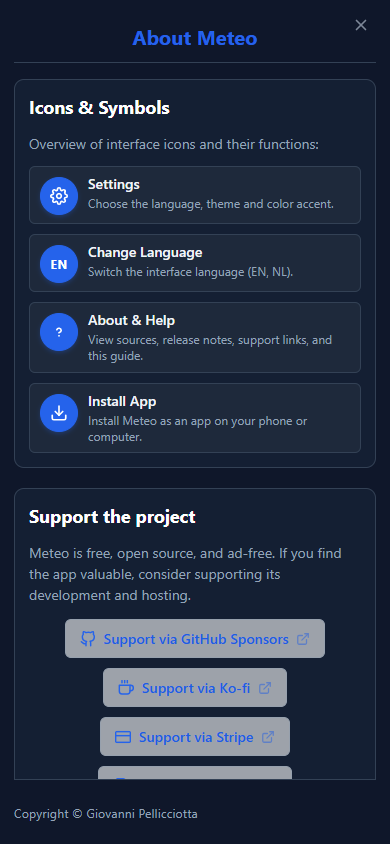
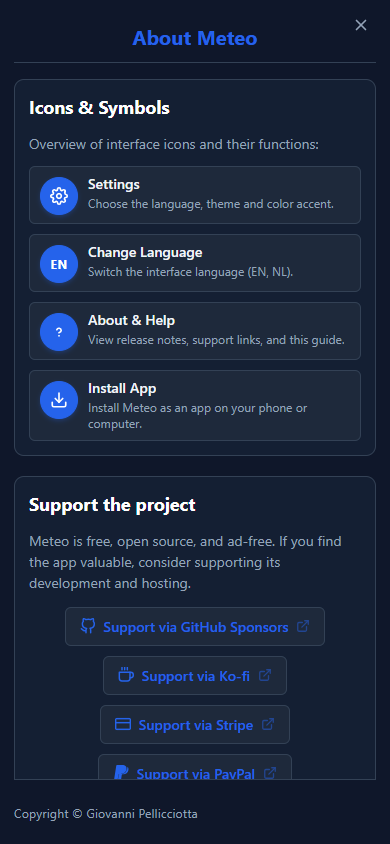
Isolated the meteo language preference from sibling apps and addressed the first T0001 review findings.

Changed region(s): [[0.0615, 0.5853, 0.8615, 0.9242], [0.0615, 0.4005, 0.9231, 0.5545]]

diff --git a/css/style.css b/css/style.css
@@ -834,16 +834,6 @@ body.suppress-tooltips [data-tooltip]::before {
   letter-spacing: 0.02em;
 }
 
-.tag-correct {
-  color: var(--color-correct);
-  font-weight: 600;
-}
-
-.tag-wrong {
-  color: var(--color-wrong);
-  font-weight: 600;
-}
-
 /* ==========================================================================
    9. About Screen (#screen-about)
    ========================================================================== */
@@ -1129,13 +1119,6 @@ body.suppress-tooltips [data-tooltip]::before {
   line-height: 1.4;
 }
 
-.about-legal-hint {
-  margin-top: 14px;
-  padding-top: 12px;
-  border-top: 1px solid var(--color-border-subtle);
-  text-align: left;
-}
-
 .about-footer {
   position: sticky;
   bottom: 0;
@@ -1218,23 +1201,6 @@ body.suppress-tooltips [data-tooltip]::before {
   line-height: 1.4;
 }
 
-.config-input {
-  width: 100%;
-  padding: 9px 12px;
-  font-size: var(--font-size-sm);
-  border: 1.5px solid var(--color-border);
-  border-radius: var(--radius);
-  background: var(--color-card);
-  color: var(--color-text);
-  transition: border-color 0.15s ease, box-shadow 0.15s ease;
-}
-
-.config-input:focus {
-  border-color: var(--color-primary);
-  box-shadow: 0 0 0 3px var(--color-primary-focus);
-  outline: none;
-}
-
 .config-field {
   margin-bottom: 16px;
 }
@@ -1279,24 +1245,6 @@ body.suppress-tooltips [data-tooltip]::before {
   font-size: var(--font-size-xs);
   line-height: 1.4;
   font-weight: 500;
-}
-
-.config-checkbox-label {
-  display: flex;
-  align-items: center;
-  gap: 8px;
-  font-size: var(--font-size-sm);
-  font-weight: 600;
-  color: var(--color-text);
-  cursor: pointer;
-}
-
-.config-checkbox-label input[type="checkbox"] {
-  width: 16px;
-  height: 16px;
-  flex-shrink: 0;
-  accent-color: var(--color-primary);
-  cursor: pointer;
 }
 
 .config-actions {

diff --git a/js/params.js b/js/params.js
@@ -24,10 +24,14 @@ export function getThemeColorParam() {
  * @returns {string|null} "light", "dark" or "system", or null when absent or invalid.
  */
 export function getThemeQueryOverride() {
-  if (typeof window === "undefined" || !window.location) return null;
+  if (typeof window === "undefined" || !window.location) {
+    return null;
+  }
   const params = new URLSearchParams(window.location.search);
   const raw = params.get("theme");
-  if (!raw) return null;
+  if (!raw) {
+    return null;
+  }
   const val = raw.trim().toLowerCase();
   return val === "dark" || val === "light" || val === "system" ? val : null;
 }
@@ -41,13 +45,23 @@ export function getThemeQueryOverride() {
  * @returns {string|null} "blue", "yellow" or "red", or null when absent or invalid.
  */
 export function getThemeColorQueryOverride() {
-  if (typeof window === "undefined" || !window.location) return null;
+  if (typeof window === "undefined" || !window.location) {
+    return null;
+  }
   const params = new URLSearchParams(window.location.search);
   const raw = params.get("theme-color") || params.get("themecolor") || params.get("theme_color");
-  if (!raw) return null;
+  if (!raw) {
+    return null;
+  }
   const val = raw.trim().toLowerCase();
-  if (val === "yellow" || val === "geel") return "yellow";
-  if (val === "red" || val === "rood") return "red";
-  if (val === "blue" || val === "blauw") return "blue";
+  if (val === "yellow" || val === "geel") {
+    return "yellow";
+  }
+  if (val === "red" || val === "rood") {
+    return "red";
+  }
+  if (val === "blue" || val === "blauw") {
+    return "blue";
+  }
   return null;
 }

diff --git a/index.html b/index.html
@@ -83,8 +83,8 @@
             </button>
 
             <button type="button" id="btn-about" class="start-meta-item start-about-btn start-meta-btn-action"
-                    aria-label="About this app (version, release notes &amp; sources)"
-                    data-tooltip="About this app (version, release notes &amp; sources)"
+                    aria-label="About this app (version &amp; release notes)"
+                    data-tooltip="About this app (version &amp; release notes)"
                     data-i18n-aria="start.btn_about_aria"
                     data-i18n-tooltip="start.btn_about_tooltip">
               <span class="start-meta-svg" data-icon="help" aria-hidden="true"></span>
@@ -141,7 +141,7 @@
             </span>
             <div class="about-icon-info">
               <strong class="about-icon-name" data-i18n="about.icon_about_title">About &amp; Help</strong>
-              <p class="about-icon-detail" data-i18n="about.icon_about_desc">View sources, release notes, support links, and this guide.</p>
+              <p class="about-icon-detail" data-i18n="about.icon_about_desc">View release notes, support links, and this guide.</p>
             </div>
           </li>
           <li class="about-icon-item">

diff --git a/js/i18n.js b/js/i18n.js
@@ -10,6 +10,8 @@
  */
 
 export const SUPPORTED_LANGS = ["en", "nl"];
+// Prefixed, because sibling apps on the same GitHub Pages origin share localStorage.
+const LANG_STORAGE_KEY = "meteo_lang";
 let currentLang = "en";
 let dict = {};
 
@@ -56,7 +58,7 @@ export function detectLang() {
   try {
     const param = new URLSearchParams(window.location.search).get("lang");
     if (param && SUPPORTED_LANGS.includes(param.toLowerCase())) return param.toLowerCase();
-    const stored = localStorage.getItem("lang");
+    const stored = localStorage.getItem(LANG_STORAGE_KEY);
     if (stored && SUPPORTED_LANGS.includes(stored.toLowerCase())) return stored.toLowerCase();
   } catch (_) {
     // localStorage may be unavailable
@@ -80,7 +82,7 @@ export async function setLang(lang) {
   dict = await res.json();
   currentLang = lang;
   try {
-    localStorage.setItem("lang", lang);
+    localStorage.setItem(LANG_STORAGE_KEY, lang);
   } catch (_) {}
   document.documentElement.lang = lang;
   applyAll();

diff --git a/tests/shell.test.js b/tests/shell.test.js
@@ -81,6 +81,17 @@ describe("modules and markup", () => {
   });
 });
 
+describe("browser storage", () => {
+  it("prefixes every localStorage key with meteo_ to stay apart from sibling apps on the same origin", () => {
+    const sources = [read("index.html"), ...jsModules().map((f) => readFileSync(join(JS_DIR, f), "utf-8"))].join("\n");
+    const literalKeys = [...sources.matchAll(/localStorage\.(?:getItem|setItem|removeItem)\(\s*["']([^"']+)["']/g)].map((m) => m[1]);
+    const constantKeys = [...sources.matchAll(/_STORAGE_KEY\s*=\s*["']([^"']+)["']/g)].map((m) => m[1]);
+    const keys = [...literalKeys, ...constantKeys];
+    expect(keys.length).toBeGreaterThan(1);
+    expect(keys.filter((k) => !k.startsWith("meteo_"))).toEqual([]);
+  });
+});
+
 describe("service worker", () => {
   it("precaches existing files including every module", () => {
     const sw = read("sw.js");

diff --git a/js/app.js b/js/app.js
@@ -96,14 +96,16 @@ function updateLangButton() {
 
 el.btnLang.addEventListener("click", () => {
   const index = SUPPORTED_LANGS.indexOf(getLang());
-  setLang(SUPPORTED_LANGS[(index + 1) % SUPPORTED_LANGS.length]);
+  setLang(SUPPORTED_LANGS[(index + 1) % SUPPORTED_LANGS.length]).catch((err) => console.warn(err));
 });
 
 // Re-render all dynamic strings on language change (covers module-local renders)
 document.addEventListener("languagechange", () => {
   applyAll();
   updateLangButton();
-  loadChangelog();
+  if (!el.screenAbout.classList.contains("hidden")) {
+    loadChangelog();
+  }
 });
 
 /**

diff --git a/sw.js b/sw.js
@@ -1,5 +1,5 @@
 // Service Worker for the Meteo PWA
-const CACHE_NAME = "meteo-v0.1.0-pre-be14beea8d65c470";
+const CACHE_NAME = "meteo-v0.1.0-pre-3be00d9035895dec";
 
 const PRECACHE_ASSETS = [
   "./",

diff --git a/js/config-view.js b/js/config-view.js
@@ -65,6 +65,6 @@ export function saveConfig() {
   closeConfigView();
 
   if (languageChanged) {
-    setLang(newLang);
+    setLang(newLang).catch((err) => console.warn(err));
   }
 }

diff --git a/.plan/tasks/T0001-bootstrap-the-meteo-app-shell-from-verkeersregels-quiz/validation-proof.md b/.plan/tasks/T0001-bootstrap-the-meteo-app-shell-from-verkeersregels-quiz/validation-proof.md
@@ -27,14 +27,25 @@ Call log:
   - waiting for locator('#start-title')
 ```
 
+## Review Round 1 Rework
+- The language now persists under `meteo_lang`; a new unit test requires the `meteo_` prefix for every storage key.
+- The changelog reloads on language change only while About is visible; `setLang` rejections are caught.
+- Screenshots disable transitions first; the browser script now covers theme preview, revert and the Dutch changelog.
+- About strings no longer mention sources; `js/params.js` uses braces; five leftover quiz CSS rules were removed.
+
+Red phase of the new storage-key test, `npx vitest run`, exit code 1:
+
+```text
+     × prefixes every localStorage key with meteo_ to stay apart from sibling apps on the same origin 25ms
+      Tests  1 failed | 7 passed (8)
+```
+
 ## Green Phase
 `npx vitest run`, exit code 0:
 
 ```text
  Test Files  1 passed (1)
-      Tests  7 passed (7)
-   Start at  12:14:03
-   Duration  464ms (tests 43%, import 30%, transform 13%, worker 13%, environment 1%)
+      Tests  8 passed (8)
 ```
 
 `node tests/shell-browser.mjs`, exit code 0:
@@ -49,6 +60,11 @@ ok - language button shows EN
 ok - About view opens
 ok - About view shows the version tag
 ok - language button switches back to Dutch
+ok - the language is not stored under the shared key "lang"
+ok - About shows the Dutch changelog in Dutch
+ok - choosing the dark theme previews it at once
+ok - closing Settings without saving reverts the preview
+ok - Escape returns to the start view
 ok - no console, page or network errors
 ```
 

diff --git a/.plan/tasks/T0001-bootstrap-the-meteo-app-shell-from-verkeersregels-quiz.md b/.plan/tasks/T0001-bootstrap-the-meteo-app-shell-from-verkeersregels-quiz.md
@@ -10,6 +10,9 @@ ended_at: —
 review: agent
 preview: none
 protocol: standard
+review_status: rejected
+review_round: 1
+reviewed_by: "@claude-2"
 ---
 # T0001: Bootstrap the meteo app shell from verkeersregels-quiz without the quiz-only features
 
@@ -52,4 +55,14 @@ Offer only Dutch and English, and leave an empty start view ready for the foreca
 
 - [2026-10-28] **[Doc]**
   Size note: the hand diff reached 20 files and 1130 lines, above the large line but under three times the estimate.
+
+- [2026-10-28] **[Review]**
+  Round 1 requested (mode: agent).
+
+- [2026-10-28] **[Review]**
+  Round 1 rejected by @claude-2: Shared language storage key with the quiz on the same origin; minor robustness and test gaps.
+  - Findings: [review-findings-1.md](T0001-bootstrap-the-meteo-app-shell-from-verkeersregels-quiz/review-findings-1.md).
+
+- [2026-10-28] **[Implement]**
+  Reworked review round 1: prefixed language storage key, lazy changelog reload, caught language load failures, test and copy fixes.
 

diff --git a/.plan/tasks/T0001-bootstrap-the-meteo-app-shell-from-verkeersregels-quiz/review-findings-1.md b/.plan/tasks/T0001-bootstrap-the-meteo-app-shell-from-verkeersregels-quiz/review-findings-1.md
@@ -1,0 +1,18 @@
+---
+task: T0001
+round: 1
+verdict: rejected
+reviewer: '@claude-2'
+reviewed_at: 2026-10-28T11:19:11Z
+---
+Reviewer: independent Claude Code subagent (read-only), round 1.
+Verdict: REJECT.
+
+1. Medium: js/i18n.js stores the language under the bare localStorage key "lang", shared with the quiz on the same GitHub Pages origin.
+2. Low: js/app.js reloads the changelog on every languagechange, even while About is hidden.
+3. Low: setLang() promises in js/config-view.js and js/app.js lack rejection handling.
+4. Low: dark screenshots are captured while CSS transitions still run.
+5. Low: browser test does not cover theme preview/revert or the Dutch changelog.
+6. Copy: about strings still mention sources although the sources card was removed.
+7. Style: js/params.js uses if statements without braces.
+8. Minor: some quiz-only CSS remains (.tag-correct, .tag-wrong, .about-legal-hint, .config-checkbox-label, .config-input).
